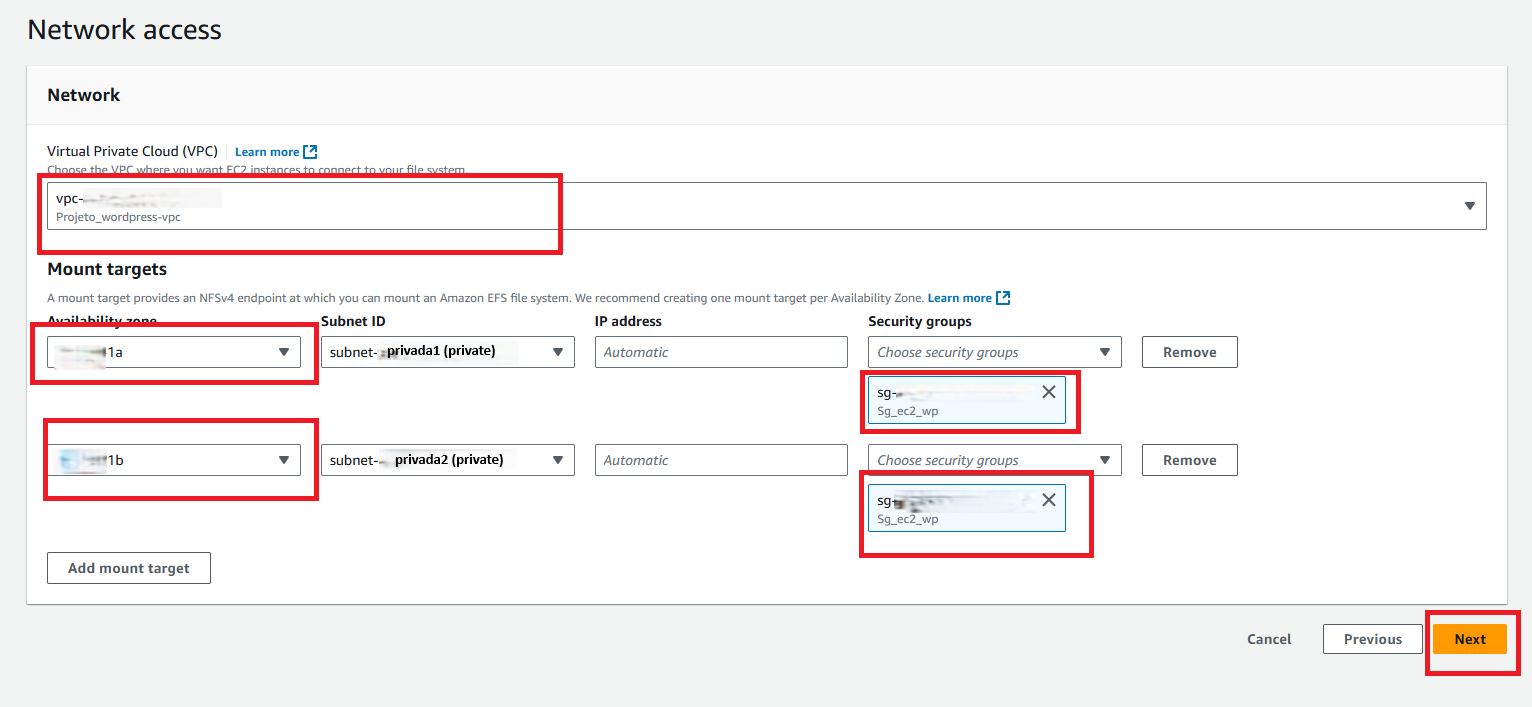
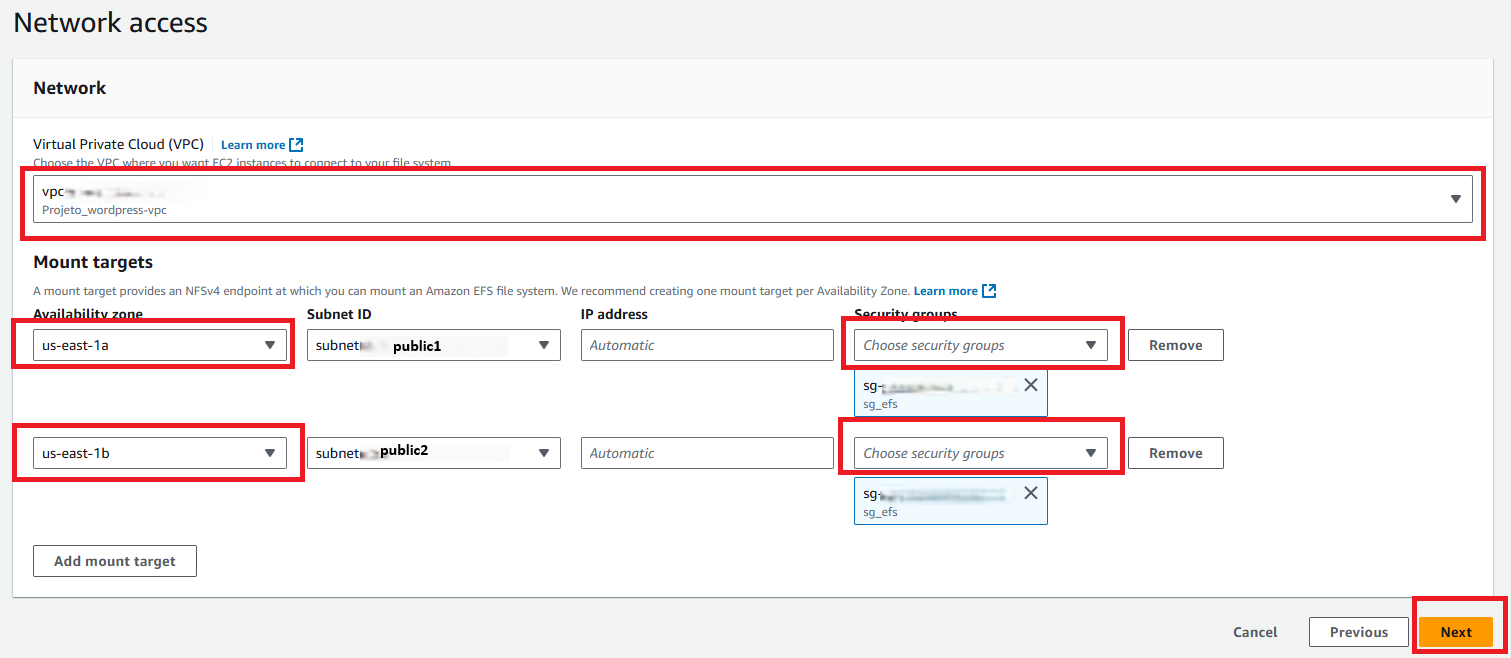
first commit

diff --git a/README.md b/README.md
@@ -59,40 +59,38 @@ docker-compose up -d
 
 > O security group define o tráfego dos nossos recursos AWS (quem e quais conexões e portas são permitidas, similiar a um firewall).
 
-### 3. Criando o Security Group das instâncias EC2 e da instância RDS(MySQL)
+### 3. Criando o Security Group das instâncias EC2, e da instância RDS (MySQL) e do sistema de arquivos (EFS)
 > O security group define o tráfego dos nossos recursos AWS (quem e quais conexões e portas são permitidas, similiar a um firewall).
 
-3.1 Criando e configurando o Security Group das instâncias.
-
-3.2 Procurar e selecionar ***EC2*** no console da AWS.
-
+3.1 Procurar e selecionar ***EC2*** no console da AWS.
+> Criando Security Group das instâncias EC2 (Wordpress).
 <img src="./sg/sg1.png">
 
-3.3 Selecionar ***Security Groups***. 
+3.2 Selecionar ***Security Groups***. 
 
 <img src="./sg/sg2.png">
 
-3.4 Selecionar ***Create security group***.
+3.3 Selecionar ***Create security group***.
 
 <img src="./sg/sg3.png">
 
-3.5 Informar o nome do seu Security Group em Security group name; inserir a descrição do seu Security Group em Description; selecionar a VPC que foi criada anteriormente.
+3.4 Informar o nome do seu Security Group em Security group name; inserir a descrição do seu Security Group em Description; selecionar a VPC que foi criada anteriormente.
 
 <img src="./sg/sg4.png">
 
-3.6 Selecionar ***Delete*** (Outbound Rules).
+3.5 Selecionar ***Delete*** (Outbound Rules).
 
 <img src="./sg/sg5.png">
 
-3.7 Selecionar ***Create security group***.
+3.6 Selecionar ***Create security group***.
 
 <img src="./sg/sg6.png">
 
-3.8 Selecionar: ***Inbound rules***; ***Edit Inbound Rules***.
+3.7 Selecionar: ***Inbound rules***; ***Edit Inbound Rules***.
 
 <img src="./sg/sg7.png">
 
-3.8 Selecionar ***Add rule***, e inserir:Inserir: Type: SSH; Source: My IP; Description: a descrição da sua regra SSH.
+3.8 Selecionar ***Add rule***, e inserir:  Type: SSH; Source: My IP; Description: a descrição da sua regra SSH.
 > Essa regra de entrada vai permitir o acesso (apenas para a nossa máquina) da instância EC2 Amazon Linux que criarmos pelo VSCode (usando uma par de chaves). 
 
 3.9 Selecionar ***Add rule***, e inserir: Type: Custom TCP; Port: 8080; Source: Anywhere-IPv4; Description: a descrição da sua regra HTTP.
@@ -114,7 +112,7 @@ docker-compose up -d
 <img src="./sg/sg10.png">
 
 3.14 Selecionar ***Create security group***.
-> Agora iremos criar o security group do MySQL.
+> Criando o security group do MySQL (RDS).
 
 <img src="./sg/sg3.png">
 
@@ -134,12 +132,38 @@ docker-compose up -d
 
 <img src="./sg/sg7.png">
 
-3.19 Selecionar ***Add rule***, e inserir:Inserir: Type: MYSQL/Aurora; Source: Custom - selecionar o security group das intâncias EC2; Description: a descrição da sua regra SSH.
+3.19 Selecionar ***Add rule***, e inserir: Type: MYSQL/Aurora; Source: Custom - selecionar o security group das intâncias EC2; Description: a descrição da sua regra SSH.
 > Essa regra de entrada vai permitir o acesso das instâncias Wordpress com a instâncias RDS(banco de dados) que criaremos.
 
 3.20 Selecionar ***Save rules***.
 
 <img src="./sg/sg12.png">
+
+3.21 Selecionar ***Create security group***.
+> Criando o security group do sistema de arquivos (EFS).
+
+<img src="./sg/sg3.png">
+
+3.22 Informar o nome do seu Security Group em Security group name; inserir a descrição do seu Security Group em Description; selecionar a VPC que foi criada anteriormente.
+
+<img src="./sg/sg13.png">
+
+3.23 Selecionar ***Delete*** (Outbound Rules).
+
+<img src="./sg/sg5.png">
+
+3.24 Selecionar ***Create security group***.
+
+<img src="./sg/sg6.png">
+
+3.25 Selecionar: ***Inbound rules***; ***Edit Inbound Rules***.
+
+<img src="./sg/sg7.png">
+
+3.26 Selecionar ***Add rule***, e inserir: Type: NFS; Source: Custom; Description: a descrição da sua regra NFS.
+> Essa regra de entrada vai permitir o acesso das instâncias EC2 com o sistema de arquivos (EFS). 
+
+<img src="./sg/sg14.png">
 
 ### 4. Criando a instância RDS
 > O Amazon Relational Database Service (Amazon RDS) é um serviço da Web que facilita a configuração, a operação e escalabilidade de um banco de dados relacional na Nuvem AWS.
@@ -228,9 +252,9 @@ docker-compose up -d
 
 5.5 Selecionar a VPC que criamos.
 
-5.6 Selecionar: Availability zone: 1a; subnet privada 1; e o security group das instâncias Wordpress.
+5.6 Selecionar: Availability zone: 1a; subnet pública 1; e o security group do efs.
 
-5.7 Selecionar: Availability zone: 1b; subnet privada 2; e o security group das instâncias Wordpress.
+5.7 Selecionar: Availability zone: 1b; subnet pública 2; e o security group do efs.
 
 <img src="./efs/efs6.png"></img>
 
